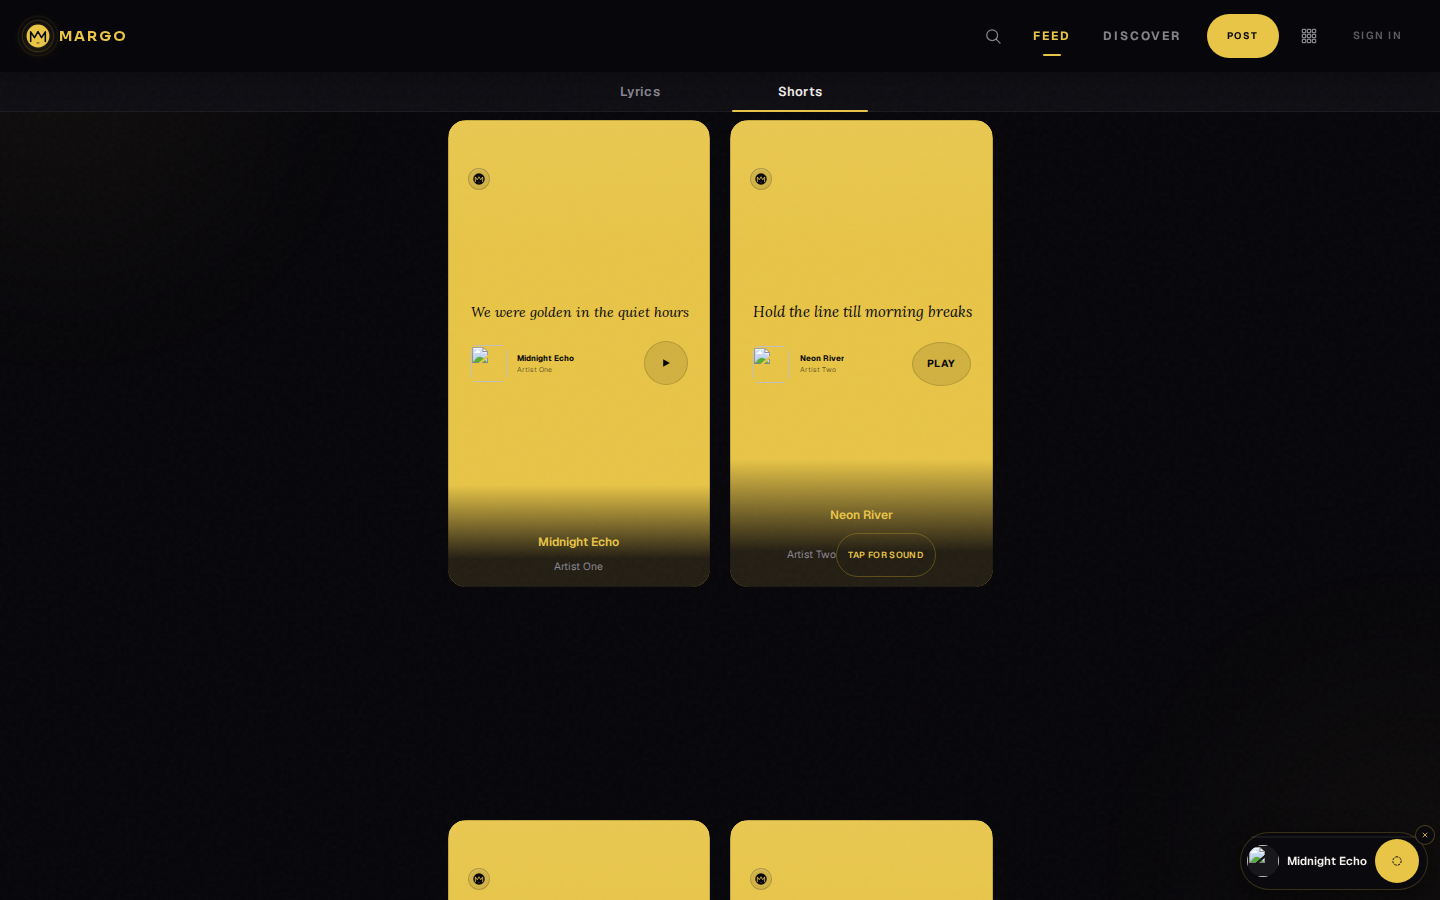
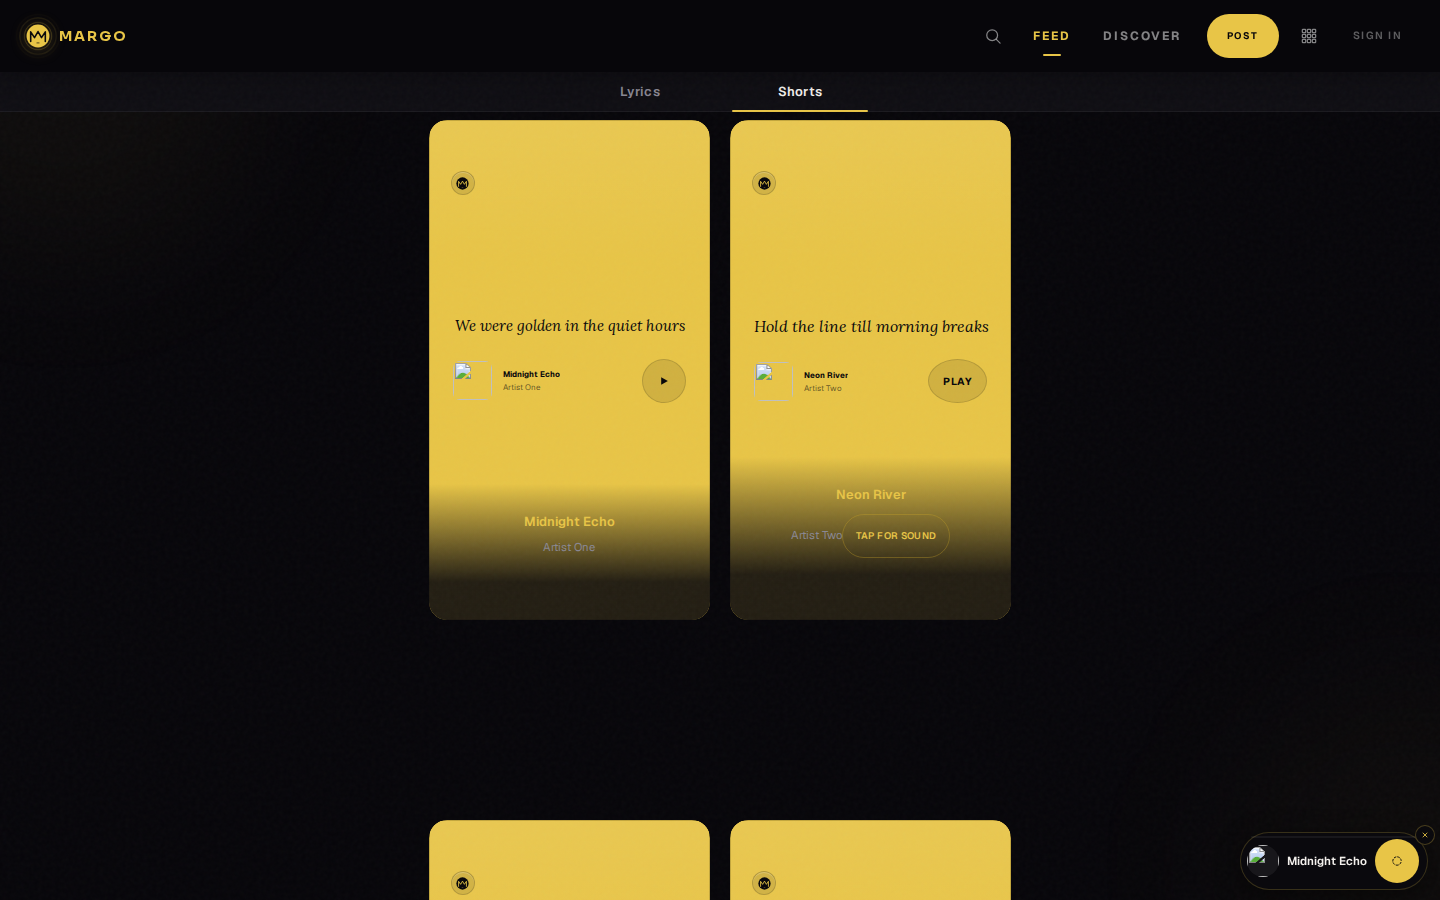
test(shorts): stable phone parity waits; refresh desktop QA shots

diff --git a/tests/e2e/feed-shorts-v2.spec.ts b/tests/e2e/feed-shorts-v2.spec.ts
@@ -146,14 +146,16 @@ test('two-column layout when viewport fits pair @1920', async ({ page }) => {
 })
 
 test('phone canvas matches main at 360x640', async ({ page }) => {
+  test.setTimeout(90_000)
   await page.setViewportSize({ width: 360, height: 640 })
-  await page.goto('https://trymargo.com/feed?tab=shorts', { waitUntil: 'networkidle', timeout: 60000 })
-  await page.waitForTimeout(1000)
-  const mainCanvas = await page.locator('[aria-label="Shorts preview, 9:16"]').first().boundingBox()
+  await page.goto('https://trymargo.com/feed?tab=shorts', { waitUntil: 'domcontentloaded', timeout: 60000 })
+  const canvasLoc = page.locator('[aria-label="Shorts preview, 9:16"]').first()
+  await canvasLoc.waitFor({ state: 'visible', timeout: 45000 })
+  const mainCanvas = await canvasLoc.boundingBox()
   if (!mainCanvas) test.skip()
-  await page.goto(shortsUrl(360), { waitUntil: 'networkidle', timeout: 60000 })
-  await page.waitForTimeout(1000)
-  const prevCanvas = await page.locator('[aria-label="Shorts preview, 9:16"]').first().boundingBox()
+  await page.goto(shortsUrl(360), { waitUntil: 'domcontentloaded', timeout: 60000 })
+  await canvasLoc.waitFor({ state: 'visible', timeout: 45000 })
+  const prevCanvas = await canvasLoc.boundingBox()
   if (!prevCanvas || !mainCanvas) test.skip()
   const pw = prevCanvas!.width
   const mw = mainCanvas!.width
@@ -164,14 +166,16 @@ test('phone canvas matches main at 360x640', async ({ page }) => {
 })
 
 test('phone canvas matches main at 390x844', async ({ page }) => {
+  test.setTimeout(90_000)
   await page.setViewportSize({ width: 390, height: 844 })
-  await page.goto('https://trymargo.com/feed?tab=shorts', { waitUntil: 'networkidle', timeout: 60000 })
-  await page.waitForTimeout(1000)
-  const mainCanvas = await page.locator('[aria-label="Shorts preview, 9:16"]').first().boundingBox()
+  await page.goto('https://trymargo.com/feed?tab=shorts', { waitUntil: 'domcontentloaded', timeout: 60000 })
+  const canvasLoc = page.locator('[aria-label="Shorts preview, 9:16"]').first()
+  await canvasLoc.waitFor({ state: 'visible', timeout: 45000 })
+  const mainCanvas = await canvasLoc.boundingBox()
   if (!mainCanvas) test.skip()
-  await page.goto(shortsUrl(390), { waitUntil: 'networkidle', timeout: 60000 })
-  await page.waitForTimeout(1000)
-  const prevCanvas = await page.locator('[aria-label="Shorts preview, 9:16"]').first().boundingBox()
+  await page.goto(shortsUrl(390), { waitUntil: 'domcontentloaded', timeout: 60000 })
+  await canvasLoc.waitFor({ state: 'visible', timeout: 45000 })
+  const prevCanvas = await canvasLoc.boundingBox()
   if (!prevCanvas || !mainCanvas) test.skip()
   const pw = prevCanvas!.width
   const mw = mainCanvas!.width
